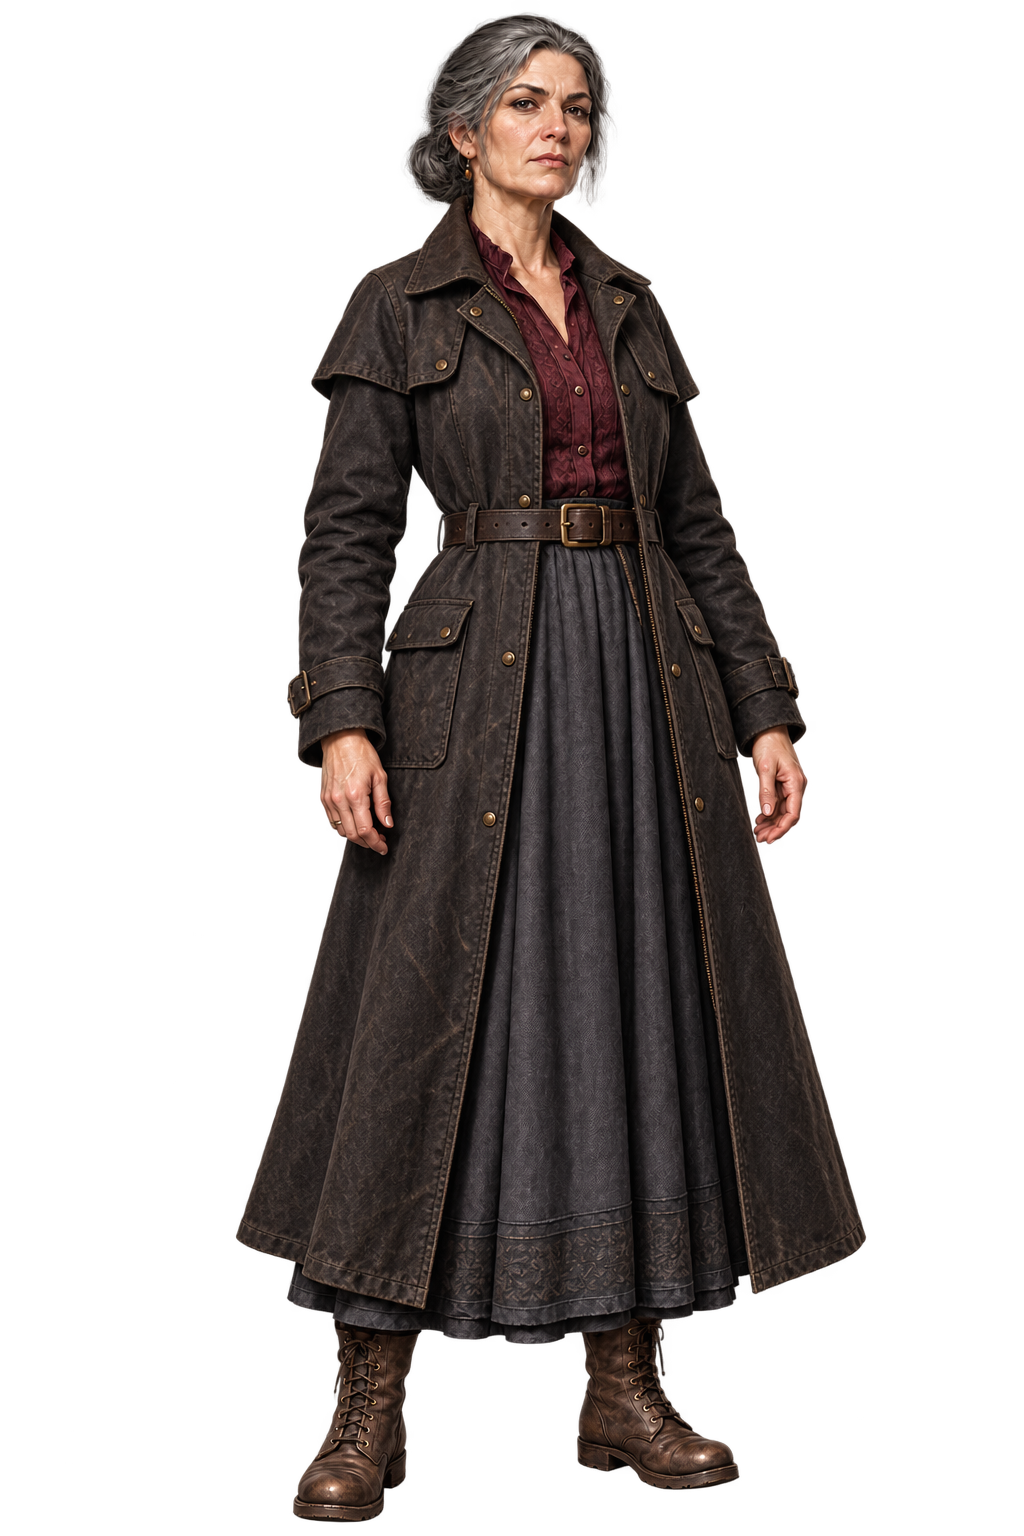
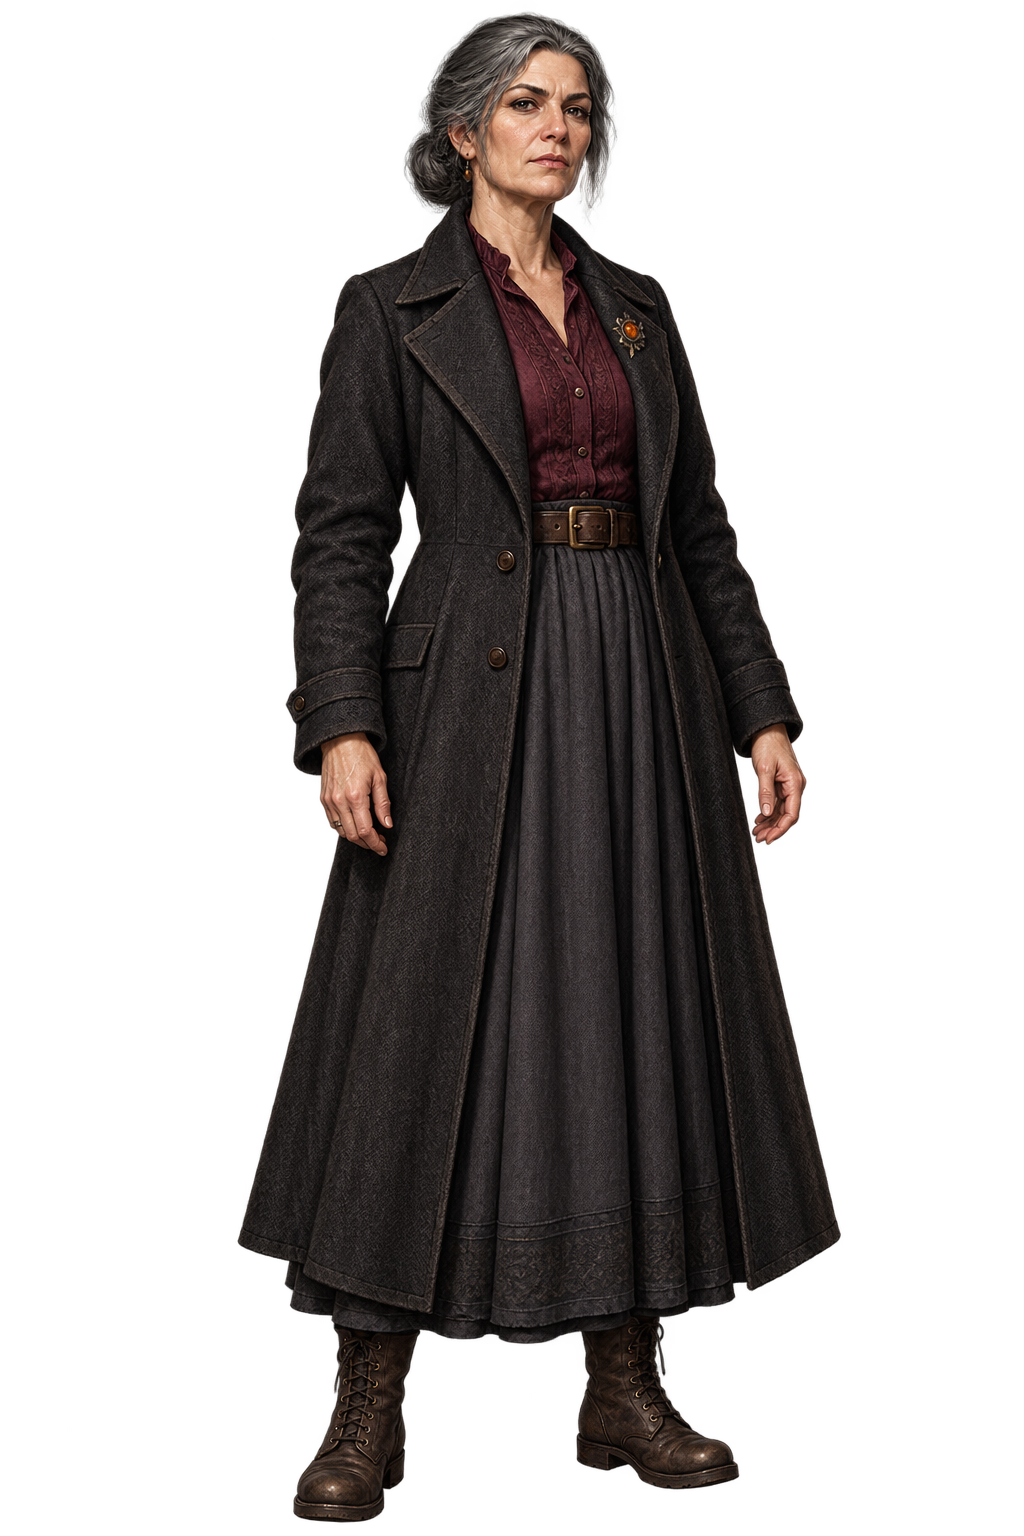
Expand Kolodets story and backgrounds

Changed region(s): [[0.2188, 0.0, 0.8438, 1.0]]

diff --git a/Projects/novels-kolodets-kotoryy-zovet/Art/APPROVED_ASSETS.md b/Projects/novels-kolodets-kotoryy-zovet/Art/APPROVED_ASSETS.md
@@ -13,9 +13,11 @@
 - Characters: 22 transparent whole-character PNGs across Mира, Лёша, Тихон,
   Вера and Соня. Each runtime outfit includes `main.png`; every used expression
   is an identity-preserving scene-derived variant.
-- Locations: 30 title-free gameplay backgrounds covering 16 compositions and
+- Locations: 36 title-free gameplay backgrounds covering 22 compositions and
   rain, night, dawn, morning and interior-lighting states. The final Ink uses
-  36 location cues across ten episodes.
+  46 location cues across ten episodes. The added scene-derived set covers the
+  village cemetery, fire lookout, closed shop, water tower, old bus interior
+  and damaged village dam.
 - Cover: `Config/cover.png`, a portrait crop of the approved rain-state well
   composition, 1360×1920, title-free.
 - Audio: two original 48-second seamless stereo PCM ambience loops and eight
@@ -29,6 +31,17 @@ checkerboard draft and an identity/costume-drifting Sonya draft were rejected
 before import. Audio was synthesized locally from elementary noise, oscillator
 and envelope primitives; it contains no samples, music, speech or third-party
 recordings.
+
+During author review, Vera's first `stern` variant was rejected because its
+leather shoulder cape, zipper and utility details drifted from her approved
+charcoal wool workcoat. A targeted correction reproduced the right wardrobe but
+returned an opaque checkerboard and was also rejected. The final runtime
+`stern.png` uses Vera's approved stern-faced master pixels exactly, retaining
+the correct outfit and genuine alpha channel.
+
+The six expansion backgrounds were generated from blank prompts after the
+reader-duration revision. Each maps to an added investigative or character
+scene; none is an unattached decorative variant.
 
 `Art/NARRATIVE_PACKAGE.md` records the approved premise, episode map, branch
 map, ending reachability and production manifest.

diff --git a/Projects/novels-kolodets-kotoryy-zovet/Art/ORIGINALITY_EVIDENCE.md b/Projects/novels-kolodets-kotoryy-zovet/Art/ORIGINALITY_EVIDENCE.md
@@ -23,7 +23,7 @@ or legal clearance.
 ## Complete source Ink — passed
 
 - Reviewed artifacts: the final root Ink and all ten episode sources, including
-  57 visible choices, persistent state callbacks, five final branches and every
+  84 visible choices, persistent state callbacks, five final branches and every
   episode end marker.
 - Exact/title searches covered «Колодец, который зовёт», «Верни моё имя»,
   «Я Алексей. Я был Лёшей» and «История колодца закончилась не тогда, когда он
@@ -48,11 +48,13 @@ or legal clearance.
 
 ## Non-character art and audio — passed
 
-- Reviewed set: all 30 backgrounds, catalog cover, two ambience loops and eight
+- Reviewed set: all 36 backgrounds, catalog cover, two ambience loops and eight
   event sounds listed in `APPROVED_ASSETS.md`.
 - Descriptive image searches covered rain-dark village wells, abandoned clubs,
-  rural pump rooms, dry creek bridges and birch paths. These are crowded
-  environmental motifs, but no material layout or composition match was found.
+  rural pump rooms, dry creek bridges, birch paths, village cemeteries, fire
+  lookouts, small shops, water towers, old buses and low rural dams. These are
+  crowded environmental motifs, but no material layout or composition match
+  was found.
 - No reverse-image database was available, limiting confidence. No external
   visual or audio source was used. Audio is sample-free procedural synthesis.
 - Result: `passed`; low residual visual/audio similarity risk, medium confidence.

diff --git a/Projects/novels-kolodets-kotoryy-zovet/README.md b/Projects/novels-kolodets-kotoryy-zovet/README.md
@@ -9,7 +9,7 @@
 - единственный `NovelContentAsset` — `Assets/kolodets-kotoryy-zovet.asset`;
 - общий Ink-вход включает десять источников `Assets/Ink/s01e01.ink` —
   `s01e10.ink`;
-- 30 фоновых состояний находятся в `Assets/Locations`;
+- 36 фоновых состояний находятся в `Assets/Locations`;
 - пять персонажей и их цельные варианты находятся в `Assets/Characters`;
 - два эмбиентных цикла и восемь событийных звуков находятся в `Assets/Audio`.
 
